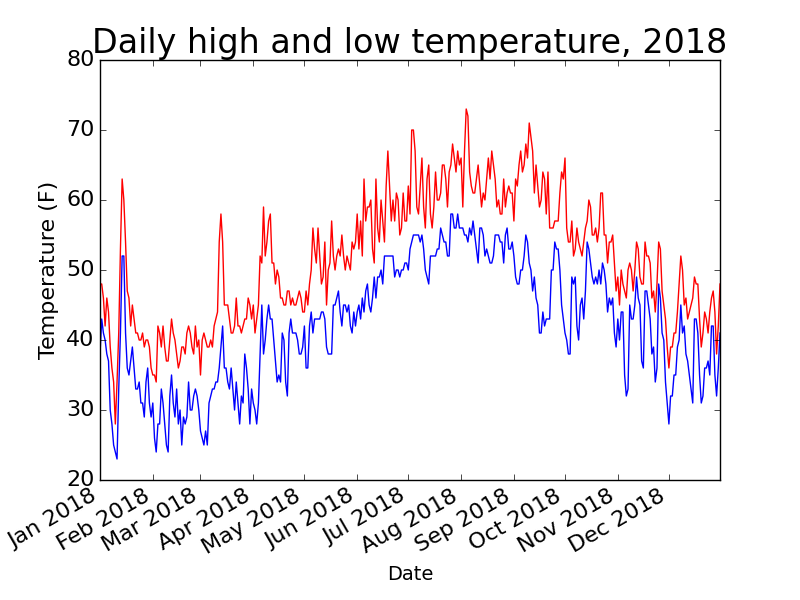
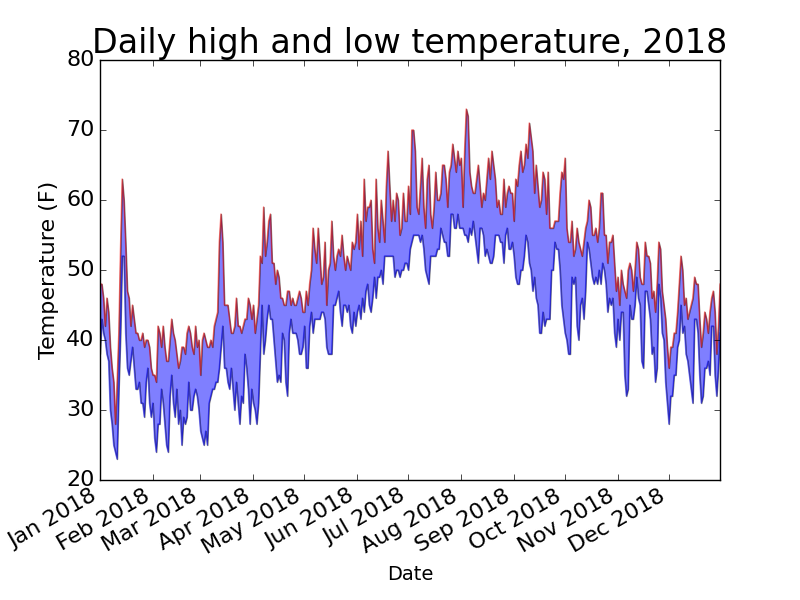
Data Visualization

Changed region(s): [[0.125, 0.18, 0.9062, 0.75]]

diff --git a/Data/sitka_highs_lows.py b/Data/sitka_highs_lows.py
@@ -21,9 +21,10 @@ with open(filename) as f:
     
 plt.style.use("classic")
 fig, ax = plt.subplots()
-ax.plot(date, highs, c = "red")
-ax.plot(date, lows, c ="blue")
+ax.plot(date, highs, c = "red", alpha = 0.5)
+ax.plot(date, lows, c ="blue", alpha = 0.5)
 
+plt.fill_between(date, highs, lows, facecolor = "blue", alpha = 0.5)
 plt.title("Daily high and low temperature, 2018", fontsize = 24)
 plt.xlabel("Date", fontsize = 14)
 fig.autofmt_xdate()
